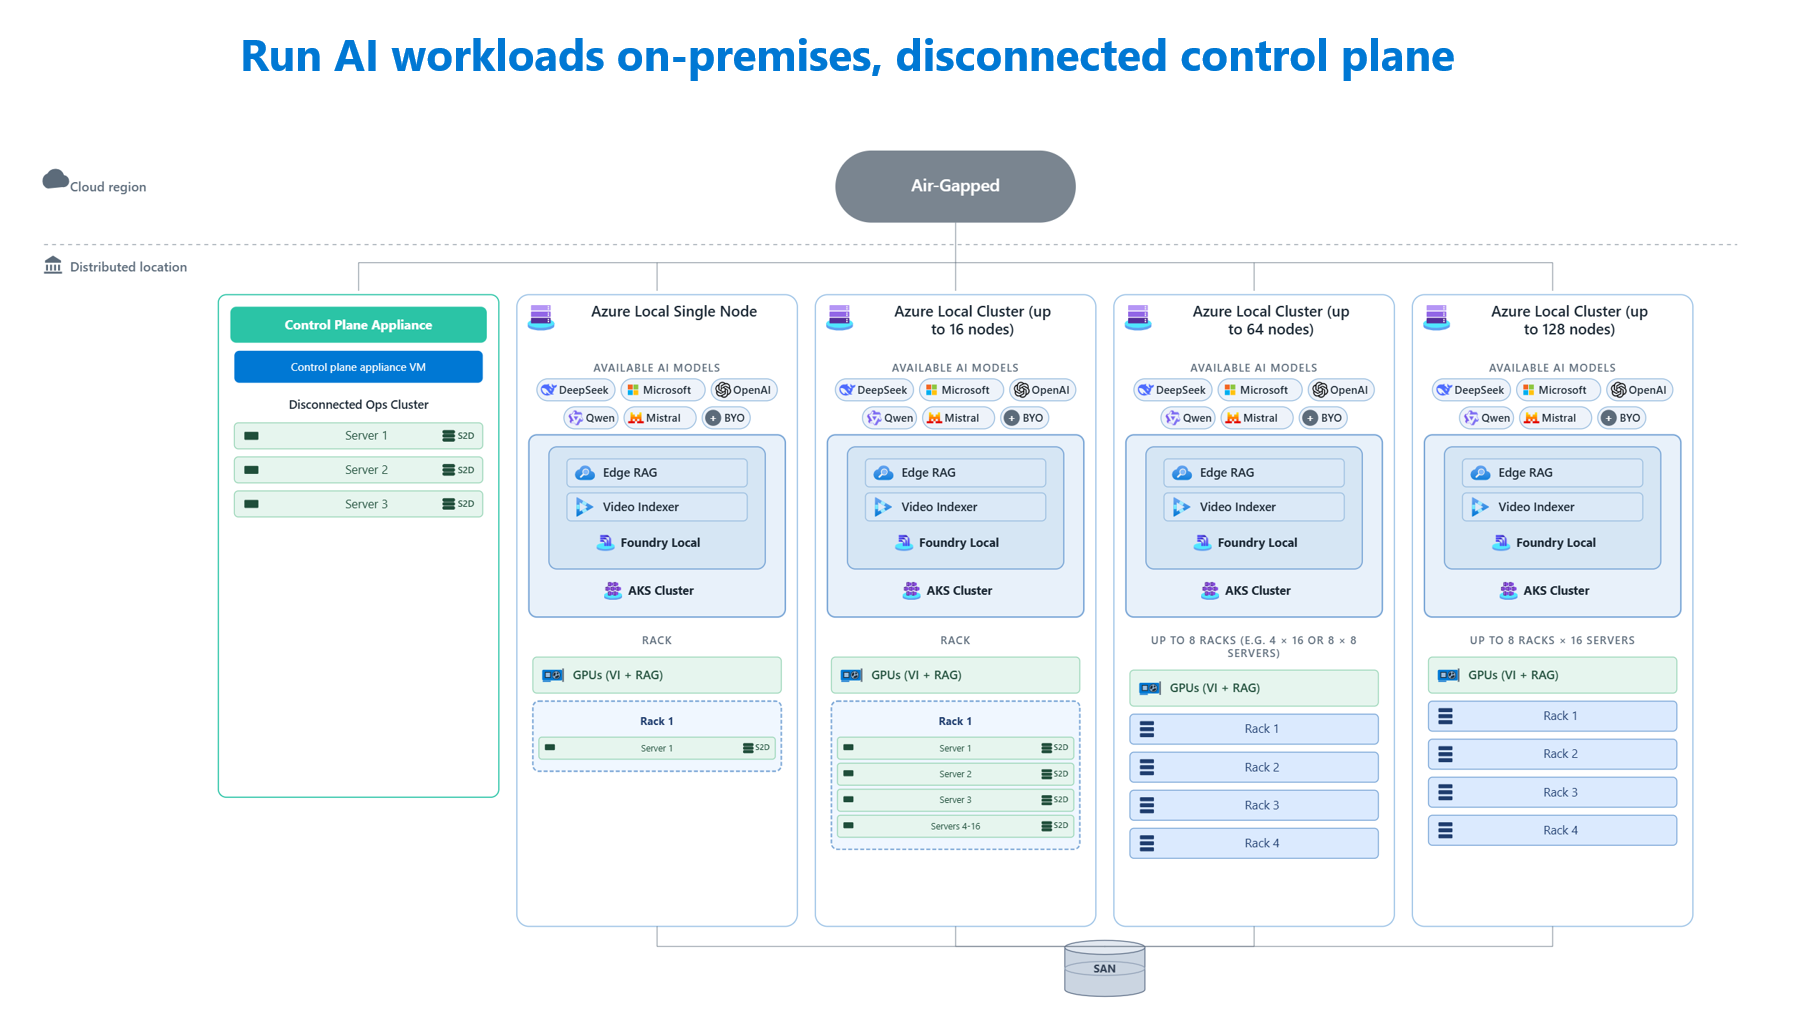
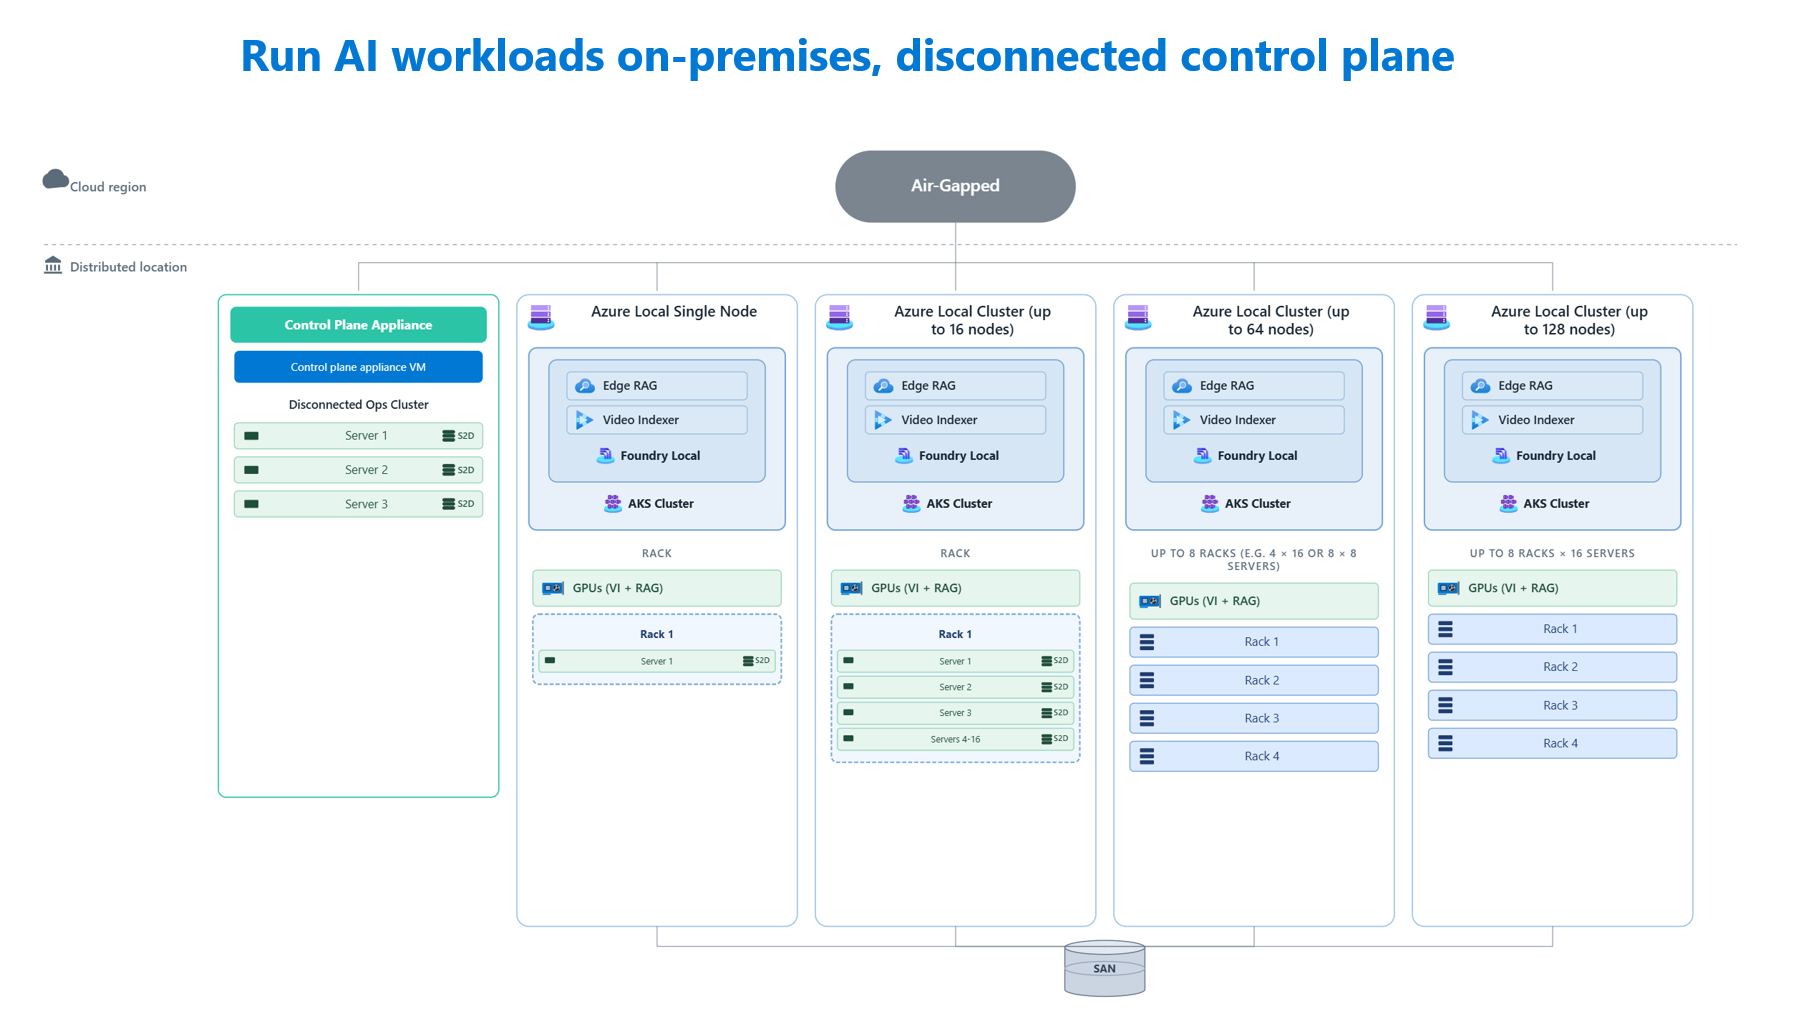
Incorporate review feedback.

Changed region(s): [[0.2789, 0.337, 0.9297, 0.8577]]

diff --git a/articles/private/use-cases/use-cases.md b/articles/private/use-cases/use-cases.md
@@ -6,36 +6,36 @@ ms.subservice: sovereign-public-clouds
 ms.topic: overview
 ms.date: 05/19/2026
 ms.author: robess
-ms.collection: 
+ms.collection:
     - microsoftcloud-sovereignty
     - microsoftcloud-seo-priority
 ---
 
 # Sovereign private cloud use cases and configurations
 
-This article describes common ways organizations use Microsoft Sovereign Private Cloud and the product configurations to build each solution. Each scenario includes a reference architecture diagram as a starting point for your design. 
+This article describes common ways organizations use Microsoft Sovereign Private Cloud and the product configurations to build each solution. Each scenario includes a reference architecture diagram as a starting point for your design.
 
-If you're new to Sovereign Private Cloud, start with [What is Sovereign Private Cloud?](../overview/sovereign-private-cloud.md) and [Azure Local overview](../azure-local/azure-local-overview.md) before reading this article. 
+If you're new to Sovereign Private Cloud, start with [What is Sovereign Private Cloud?](../overview/sovereign-private-cloud.md) and [Azure Local overview](../azure-local/azure-local-overview.md) before reading this article.
 
 ## Who this article is for
 
-This article is written for anyone evaluating whether Sovereign Private Cloud fits a specific need, including: 
+This article is written for anyone evaluating whether Sovereign Private Cloud fits a specific need, including:
 
-- **Architects** designing a sovereign on-premises or edge environment 
-- **IT decision-makers** comparing sovereign options across public cloud, private cloud, and partner clouds 
-- **Operators** planning a deployment and choosing the right scale and connectivity model 
-- **Compliance, security, and risk leaders** mapping sovereignty requirements to a technical solution 
+- **Architects** designing a sovereign on-premises or edge environment
+- **IT decision-makers** comparing sovereign options across public cloud, private cloud, and partner clouds
+- **Operators** planning a deployment and choosing the right scale and connectivity model
+- **Compliance, security, and risk leaders** mapping sovereignty requirements to a technical solution
 
-You don't need deep familiarity with Sovereign Private Cloud to read this article. Each scenario explains what you can do, who it's for, and how to build it before pointing you to the relevant product and reference documentation. 
+You don't need deep familiarity with Sovereign Private Cloud to read this article. Each scenario explains what you can do, who it's for, and how to build it before pointing you to the relevant product and reference documentation.
 
-## What's in scope (and what's not) 
+## What's in scope (and what's not)
 
 Sovereign Private Cloud is built on Azure Local and can include Microsoft 365 Local, Foundry Local, Azure Virtual Desktop on Azure Local, your own VM and container-based applications, and more. The scenarios in this article highlight common combinations of these capabilities. They don't represent the full set of features available in the platform.
 
 > [!NOTE]
-> These scenarios aren't mutually exclusive. Most real-world deployments combine several. For example, a single environment might run productivity ([Scenario 5](#scenario-5-host-productivity-and-collaboration-locally-with-microsoft-365-local)), AI ([Scenario 4](#scenario-4-run-sovereign-ai-workloads-on-premises)), and multi-tenant hosting ([Scenario 2](#scenario-2-support-multiple-tenants)) on the same infrastructure. Use them as building blocks to design what you need. 
+> These scenarios aren't mutually exclusive. Most real-world deployments combine several. For example, a single environment might run productivity ([Scenario 5](#scenario-5-host-productivity-and-collaboration-locally-with-microsoft-365-local)), AI ([Scenario 4](#scenario-4-run-sovereign-ai-workloads-on-premises)), and multi-tenant hosting ([Scenario 2](#scenario-2-support-multiple-tenants)) on the same infrastructure. Use them as building blocks to design what you need.
 
-## How to use this article 
+## How to use this article
 
 Use the following table to quickly map your requirements to a scenario. Each row links to the full scenario section, which includes a plain-English description, the recommended Azure Local configuration, the key services involved, and a reference architecture diagram.
 
@@ -60,13 +60,13 @@ Use the following table to quickly map your requirements to a scenario. Each row
 
 ### Who this is for
 
-Architects and IT decision-makers evaluating Sovereign Private Cloud for the first time, or any team whose immediate need is "give me a sovereign place to run my VMs and Kubernetes apps." 
+Architects and IT decision-makers evaluating Sovereign Private Cloud for the first time, or any team whose immediate need is "give me a sovereign place to run my VMs and Kubernetes apps."
 
 ### What you can do
 
-Sovereign Private Cloud, powered by Azure Local, gives you a cloud-consistent platform for VM and container workloads inside your own datacenter, branch, or edge site with full control over where your data lives and who can access it. Bring your own hardware from a validated catalog, deploy Azure Local, and run general-purpose Windows or Linux VMs and AKS clusters using the same Azure Resource Manager experience as the public cloud. You can run **connected** to Azure for unified management, monitoring, and updates through Azure Arc, or **fully disconnected** when continuous public-cloud connectivity isn't possible or permitted. 
+Sovereign Private Cloud, powered by Azure Local, gives you a cloud-consistent platform for VM and container workloads inside your own datacenter, branch, or edge site with full control over where your data lives and who can access it. Bring your own hardware from a validated catalog, deploy Azure Local, and run general-purpose Windows or Linux VMs and AKS clusters using the same Azure Resource Manager experience as the public cloud. You can run **connected** to Azure for unified management, monitoring, and updates through Azure Arc, or **fully disconnected** when continuous public-cloud connectivity isn't possible or permitted.
 
-The platform scales with you. You could start with a **single-node cluster** at a small branch or edge site, grow to a **multi-node hyperconverged cluster** in a regional datacenter, and extend to **multi-rack deployments** of up to 128 nodes each. 
+The platform scales with you. You could start with a **single-node cluster** at a small branch or edge site, grow to a **multi-node hyperconverged cluster** in a regional datacenter, and extend to **multi-rack deployments** of up to 128 nodes each.
 
 ### What this translates to
 
@@ -78,13 +78,13 @@ The following table shows the connectivity models, deployment types, and key ser
 
 ### Connected diagram
 
-:::image type="content" source="media/scenario-1-connected-diagram.png" alt-text="Diagram of baseline connected hyperconverged, disaggregated, and multi-rack deployments" lightbox="media/scenario-1-connected-diagram.png":::
+:::image type="content" source="media/scenario-1-connected-diagram.png" alt-text="Diagram of baseline connected hyperconverged, disaggregated, and multi-rack deployments." lightbox="media/scenario-1-connected-diagram.png":::
 
 ### Disconnected diagram
 
-:::image type="content" source="media/scenario-1-disconnected-diagram.png" alt-text="Diagram of baseline disconnected hyperconverged and disaggregated deployment" lightbox="media/scenario-1-disconnected-diagram.png":::
+:::image type="content" source="media/scenario-1-disconnected-diagram.png" alt-text="Diagram of baseline disconnected hyperconverged and disaggregated deployment." lightbox="media/scenario-1-disconnected-diagram.png":::
 
-## Scenario 2: Support multiple tenants 
+## Scenario 2: Support multiple tenants
 
 ### Who this is for
 
@@ -94,11 +94,11 @@ Sovereign hosting providers, national IT agencies operating centralized platform
 
 Sovereign Private Cloud lets you run a multi-tenant platform on Azure Local where multiple organizations, agencies, or business units share a common operations model while running on physically isolated hardware. Each tenant gets its own dedicated Azure Local cluster with dedicated compute and optionally shared storage and networking between tenants.
 
-Think of a national government IT agency that provides cloud‑like infrastructure services to five different ministries. Each ministry runs on its own dedicated Azure Local cluster, sized to its workload, governed by its own RBAC policies and access controls, while a single platform team operates all of them through a shared Azure control plane. This architecture gives every tenant the strongest possible isolation boundary (separate hardware) while still letting the hosting provider manage the estate centrally and consistently. It dramatically lowers operational cost and complexity compared to standing up a fully separate sovereign environment per tenant. 
+Think of a national government IT agency that provides cloud‑like infrastructure services to five different ministries. Each ministry runs on its own dedicated Azure Local cluster, sized to its workload, governed by its own RBAC policies and access controls, while a single platform team operates all of them through a shared Azure control plane. This architecture gives every tenant the strongest possible isolation boundary (separate hardware) while still letting the hosting provider manage the estate centrally and consistently. It dramatically lowers operational cost and complexity compared to standing up a fully separate sovereign environment per tenant.
 
 Because each tenant runs on dedicated hardware, you can right‑size per tenant: a small ministry might run on a single‑node or small hyperconverged cluster, while a larger one runs on a multi-rack deployment. The shared Azure control plane provides centralized monitoring, updates, and lifecycle management across all tenant clusters, while per‑tenant dashboards, RBAC, and policies give each tenant visibility and control over their own workloads.
 
-This scenario runs connected to Azure, since the shared control plane, centralized operations, and Azure Arc–based management depend on cloud connectivity from the hosting provider's operations environment. Disconnected support is coming soon. 
+This scenario runs connected to Azure, since the shared control plane, centralized operations, and Azure Arc–based management depend on cloud connectivity from the hosting provider's operations environment.
 
 ### What this translates to
 
@@ -108,17 +108,17 @@ The following table shows the connectivity models, deployment types, and key ser
 |---|---|---|
 | [Connected](../azure-local/connected-operations-overview.md) | [Hyperconverged](/azure/azure-local/overview/hyperconverged-overview), [disaggregated](/azure/azure-local/overview/disaggregated-overview), or [multi-rack](/azure/azure-local/multi-rack/multi-rack-overview) - sized per tenant | [Azure Local VMs](/azure/azure-local/manage/azure-arc-vm-management-overview), [AKS on Azure Local](/azure/aks/aksarc/aks-overview), [Azure Arc-based management](/azure/azure-local/manage/arc-extension-management), RBAC, [centralized monitoring](/azure/azure-local/concepts/monitoring-overview) and [updates](/azure/azure-local/update/about-updates-23h2) via a shared Azure control plane |
 
-:::image type="content" source="media/scenario-2.png" alt-text="Diagram of hosting multiple tenants on physically isolated hardware with connected control plane" lightbox="media/scenario-2.png":::
+:::image type="content" source="media/scenario-2.png" alt-text="Diagram of hosting multiple tenants on physically isolated hardware with connected control plane." lightbox="media/scenario-2.png":::
 
-## Scenario 3: Stay resilient: high availability and site to cloud disaster recovery 
+## Scenario 3: Stay resilient: high availability and site to cloud disaster recovery
 
 ### Who this is for
 
-Infrastructure architects, BC/DR planners, risk and compliance officers, and IT decision‑makers responsible for keeping mission‑critical sovereign workloads. 
+Infrastructure architects, BC/DR planners, risk and compliance officers, and IT decision‑makers responsible for keeping mission‑critical sovereign workloads.
 
 ### What you can do
 
-Sovereign Private Cloud is resilient by design, with two clearly defined protection scenarios. Within a fault domain, Azure Local provides native capabilities that keep workloads running through component, node, and rack failures. Across regions, Azure Site Recovery extends this protection by replicating workloads to an Azure cloud region, enabling recovery from workload-level failures. Together, these layers provide a flexible resilience strategy that you can apply per workload tier. 
+Sovereign Private Cloud is resilient by design, with two clearly defined protection scenarios. Within a fault domain, Azure Local provides native capabilities that keep workloads running through component, node, and rack failures. Across regions, Azure Site Recovery extends this protection by replicating workloads to an Azure cloud region, enabling recovery from workload-level failures. Together, these layers provide a flexible resilience strategy that you can apply per workload tier.
 
 High availability within a fault domain: every multi-node Azure Local cluster includes native HA capabilities.
 
@@ -128,9 +128,9 @@ High availability within a fault domain: every multi-node Azure Local cluster in
 
 - Operational high availability: VM live migration enables running workloads to move between servers during planned maintenance, so you can update and patch without workload downtime.
 
-Rack-aware clustering allows nodes to be distributed across two physical racks located in separate rooms or buildings, connected by high-bandwidth, low-latency networking. This design enhances availability and resiliency by ensuring that if one rack experiences a failure, the other rack continues to maintain data integrity and accessibility. Use this pattern when you need to protect against rack-level failure domains. 
+Rack-aware clustering allows nodes to be distributed across two physical racks located in separate rooms or buildings, connected by high-bandwidth, low-latency networking. This design enhances availability and resiliency by ensuring that if one rack experiences a failure, the other rack continues to maintain data integrity and accessibility. Use this pattern when you need to protect against rack-level failure domains.
 
-Site-to-cloud disaster recovery with Azure Site Recovery: Azure Site Recovery on Azure Local replicates VM workloads from your sovereign environment to an Azure cloud region, providing protection against site-level outages such as fire, flood, or extended power loss. In the event of a disruption, you can fail over workloads to Azure and operate them there until the primary site is restored, after which you can fail back to Azure Local. This approach suits scenarios where primary operations remain sovereign and on-premises, while disaster recovery is implemented in a designated Azure region. 
+Site-to-cloud disaster recovery with Azure Site Recovery: Azure Site Recovery on Azure Local replicates VM workloads from your sovereign environment to an Azure cloud region, providing protection against site-level outages such as fire, flood, or extended power loss. In the event of a disruption, you can fail over workloads to Azure and operate them there until the primary site is restored, after which you can fail back to Azure Local. This approach suits scenarios where primary operations remain sovereign and on-premises, while disaster recovery is implemented in a designated Azure region.
 
 ### What this translates to
 
@@ -146,9 +146,9 @@ The following table shows the connectivity models, deployment types, and key ser
 
 The following diagram only shows the rack-aware cluster scenario. For other capabilities, see the articles in the previous table.
 
-:::image type="content" source="media/scenario-3.png" alt-text="Diagram of rack-aware clusters" lightbox="media/scenario-3.png":::
+:::image type="content" source="media/scenario-3.png" alt-text="Diagram of rack-aware clusters." lightbox="media/scenario-3.png":::
 
-## Scenario 4: Run sovereign AI workloads on-premises 
+## Scenario 4: Run sovereign AI workloads on-premises
 
 ### Who this is for
 
@@ -156,19 +156,19 @@ Architects, data and AI leads, and decision-makers in regulated industries who w
 
 ### What you can do
 
-Sovereign Private Cloud lets you build, deploy, and run AI models and AI‑powered applications inside your own controlled environment, while still benefiting from Microsoft's AI ecosystem. By using Foundry Local on Azure Local, you can host models locally for inference, run agentic and RAG patterns against private data, and process video and unstructured content by using services like Azure AI Video Indexer. All this happens without data, prompts, or model weights leaving your sovereign boundary. 
+Sovereign Private Cloud lets you build, deploy, and run AI models and AI‑powered applications inside your own controlled environment, while still benefiting from Microsoft's AI ecosystem. By using Foundry Local on Azure Local, you can host models locally for inference, run agentic and RAG patterns against private data, and process video and unstructured content by using services like Azure AI Video Indexer. All this happens without data, prompts, or model weights leaving your sovereign boundary.
 
-Flexible model choice: Foundry Local supports a full spectrum of model options, so you can pick what works for each workload: 
+Flexible model choice: Foundry Local supports a full spectrum of model options, so you can pick what works for each workload:
 
-- Open‑source models - from the curated Foundry Local catalog (DeepSeek, Qwen, Mistral, Microsoft‑published) packaged as containers and deployed locally for chat, reasoning, summarization, and agentic workflows. 
+- Open‑source models - from the curated Foundry Local catalog (DeepSeek, Qwen, Mistral, Microsoft‑published) packaged as containers and deployed locally for chat, reasoning, summarization, and agentic workflows.
 
-- Frontier/proprietary models as a service (MaaS) - for qualified customers, access proprietary models (for example, Azure OpenAI) through a Microsoft‑managed, dedicated inferencing endpoint on a secured Azure Local deployment. 
+- Frontier/proprietary models as a service (MaaS) - for qualified customers, access proprietary models (for example, Azure OpenAI) through a Microsoft‑managed, dedicated inferencing endpoint on a secured Azure Local deployment.
 
-- Bring your own models (BYO) - onboard any model containerized with ONNX or vLLM, including Hugging Face models, fine‑tuned variants, internal LLMs, and traditional ML/predictive models, all on the same unified local inferencing layer. 
+- Bring your own models (BYO) - onboard any model containerized with ONNX or vLLM, including Hugging Face models, fine‑tuned variants, internal LLMs, and traditional ML/predictive models, all on the same unified local inferencing layer.
 
-Agentic patterns with bring‑your‑own MCP. Beyond inference, Foundry Local supports end‑to‑end agentic RAG: semantic and hybrid retrieval, multi‑step reasoning, and tool‑driven actions, grounded in customer‑owned content. Connect agents to enterprise systems through Model Context Protocol (MCP): use built‑in connectors in Microsoft 365 Local agentic RAG to chat and get references from Microsoft 365 Local SharePoint documents as well as emails and meetings from local Exchange Server. Or bring your own MCP servers to reach line‑of‑business systems, internal APIs, and other data sources while keeping every retrieval, prompt, and tool invocation inside your sovereign boundary. 
+Agentic patterns with bring‑your‑own MCP. Beyond inference, Foundry Local supports end‑to‑end agentic RAG: semantic and hybrid retrieval, multi‑step reasoning, and tool‑driven actions, grounded in customer‑owned content. Connect agents to enterprise systems through Model Context Protocol (MCP): use built‑in connectors in Microsoft 365 Local agentic RAG to chat and get references from Microsoft 365 Local SharePoint documents as well as emails and meetings from local Exchange Server. Or bring your own MCP servers to reach line‑of‑business systems, internal APIs, and other data sources while keeping every retrieval, prompt, and tool invocation inside your sovereign boundary.
 
-The same scenario works connected to Azure for ongoing model and update management, or fully disconnected where AI must run with no public‑cloud reachability. Because AI workloads are GPU‑bound and often storage‑intensive, Azure Local supports 50+ GPU‑capable validated platforms with NVIDIA GPUs. 
+The same scenario works connected to Azure for ongoing model and update management, or fully disconnected where AI must run with no public‑cloud reachability. Because AI workloads are GPU‑bound and often storage‑intensive, Azure Local supports 50+ GPU‑capable validated platforms with NVIDIA GPUs.
 
 ### What this translates to
 
@@ -178,15 +178,15 @@ The following table shows the connectivity models, deployment types, and key ser
 |---|---|---|
 | [Connected](../azure-local/connected-operations-overview.md) or [disconnected](../azure-local/disconnected-operations-overview.md) | [Hyperconverged](/azure/azure-local/overview/hyperconverged-overview), [disaggregated](/azure/azure-local/overview/disaggregated-overview), or [multi-rack](/azure/azure-local/multi-rack/multi-rack-overview) | [Foundry Local](/azure/azure-sovereign-clouds/private/foundry-local/what-is-foundry-local-on-azure-local?context=%2Fazure%2Fazure-sovereign-clouds%2Fcontext%2Fcontext), [Edge RAG](/azure/azure-arc/edge-rag/overview?context=%2Fazure%2Fazure-sovereign-clouds%2Fcontext%2Fcontext), [Azure AI Video Indexer](/azure/azure-video-indexer/arc/azure-video-indexer-enabled-by-arc-overview?context=%2Fazure%2Fazure-sovereign-clouds%2Fcontext%2Fcontext), [AKS on Azure Local](/azure/aks/aksarc/aks-overview), [GPU-enabled hardware](/azure/azure-local/manage/gpu-preparation) |
 
-### Run AI workloads, connected control plane 
+### Run AI workloads, connected control plane
 
-:::image type="content" source="media/scenario-4-connected.png" alt-text="Diagram of AI workloads on-premises with connected control plane" lightbox="media/scenario-4-connected.png":::
+:::image type="content" source="media/scenario-4-connected.png" alt-text="Diagram of AI workloads on-premises with connected control plane." lightbox="media/scenario-4-connected.png":::
 
 ### Run AI workloads, disconnected control plane
 
-:::image type="content" source="media/scenario-4-disconnected.png" alt-text="Diagram of AI workloads on-premises with disconnected control plane" lightbox="media/scenario-4-disconnected.png":::
+:::image type="content" source="media/scenario-4-disconnected.png" alt-text="Diagram of AI workloads on-premises with disconnected control plane." lightbox="media/scenario-4-disconnected.png":::
 
-## Scenario 5: Host productivity and collaboration locally with Microsoft 365 Local 
+## Scenario 5: Host productivity and collaboration locally with Microsoft 365 Local
 
 ### Who this is for
 
@@ -198,7 +198,7 @@ Sovereign Private Cloud lets you run Microsoft 365 Local: productivity and colla
 
 This scenario is designed for organizations that have to comply with national data residency rules, sector-specific regulations, or internal policies that prohibit storing collaboration data in the public cloud. Microsoft 365 Local can run connected to Azure for unified management and updates, or fully disconnected for environments where continuous public-cloud reachability isn't permitted.
 
-Various configurations and hardware specifications are available to support different scales and requirements, including small-scale, mid-scale, and large scale deployments. The overall architecture of Microsoft 365 Local is tailored to each customer’s needs. Customers should work with their authorized Microsoft partner to appropriately size and design their deployment. 
+Various configurations and hardware specifications are available to support different scales and requirements, including small-scale, mid-scale, and large scale deployments. The overall architecture of Microsoft 365 Local is tailored to each customer’s needs. Customers should work with their authorized Microsoft partner to appropriately size and design their deployment.
 
 ### What this translates to
 
@@ -208,9 +208,9 @@ The following table shows the connectivity models, deployment types, and key ser
 |---|---|---|
 | [Connected](../azure-local/connected-operations-overview.md) or [disconnected](../azure-local/disconnected-operations-overview.md) | Small, Medium, or Large Scale | [Microsoft 365 Local](/azure/azure-sovereign-clouds/private/m365-local/microsoft-365-local-overview) (Exchange Server, SharePoint Server) |
 
-:::image type="content" source="media/scenario-5.png" alt-text="Diagram of running small productivity suite locally with disconnected control plane" lightbox="media/scenario-5.png":::
+:::image type="content" source="media/scenario-5.png" alt-text="Diagram of running small productivity suite locally with disconnected control plane." lightbox="media/scenario-5.png":::
 
-## Scenario 6: Deliver secure virtual desktops and apps to a sovereign workforce 
+## Scenario 6: Deliver secure virtual desktops and apps to a sovereign workforce
 
 ### Who this is for
 
@@ -218,7 +218,7 @@ End-user computing leads, workplace and IT decision-makers, and security and com
 
 ### What you can do
 
-Sovereign Private Cloud lets you run Azure Virtual Desktop (AVD) on Azure Local, delivering full Windows desktops and remote apps to your users from infrastructure you own and operate. User session data, profiles, and the apps themselves stay inside your sovereign environment. Only the encrypted display, keyboard, and mouse traffic reaches the endpoint device. Use this pattern when you need to give a distributed workforce (for example, caseworkers, clinicians, classified-program staff, contact-center agents, contractors) access to sensitive systems and data without putting that data on the endpoint or in the public cloud. 
+Sovereign Private Cloud lets you run Azure Virtual Desktop (AVD) on Azure Local, delivering full Windows desktops and remote apps to your users from infrastructure you own and operate. User session data, profiles, and the apps themselves stay inside your sovereign environment. Only the encrypted display, keyboard, and mouse traffic reaches the endpoint device. Use this pattern when you need to give a distributed workforce (for example, caseworkers, clinicians, classified-program staff, contact-center agents, contractors) access to sensitive systems and data without putting that data on the endpoint or in the public cloud.
 
 AVD on Azure Local pairs naturally with the rest of your Sovereign Private Cloud workloads. A common pattern is AVD session hosts running alongside Microsoft 365 Local (so users can access sovereign Exchange and SharePoint from their virtual desktop) and alongside line-of-business VMs and AKS apps (so users can reach internal applications), all on the same hyperconverged cluster or a dedicated AVD cluster when you need to isolate the end user computing (EUC) tier.
 
@@ -230,4 +230,4 @@ The following table shows the connectivity models, deployment types, and key ser
 |---|---|---|
 | [Connected](../azure-local/connected-operations-overview.md) | [Hyperconverged](/azure/azure-local/overview/hyperconverged-overview), [disaggregated](/azure/azure-local/overview/disaggregated-overview) | [Azure Virtual Desktop on Azure Local](/azure/virtual-desktop/azure-local-overview), [Azure Local VMs](/azure/azure-local/manage/azure-arc-vm-management-overview), [AKS on Azure Local](/azure/aks/aksarc/aks-overview), optional Microsoft 365 Local for in-session productivity |
 
-:::image type="content" source="media/scenario-6.png" alt-text="Diagram of Azure Virtual Desktop" lightbox="media/scenario-6.png":::
+:::image type="content" source="media/scenario-6.png" alt-text="Diagram of Azure Virtual Desktop." lightbox="media/scenario-6.png":::